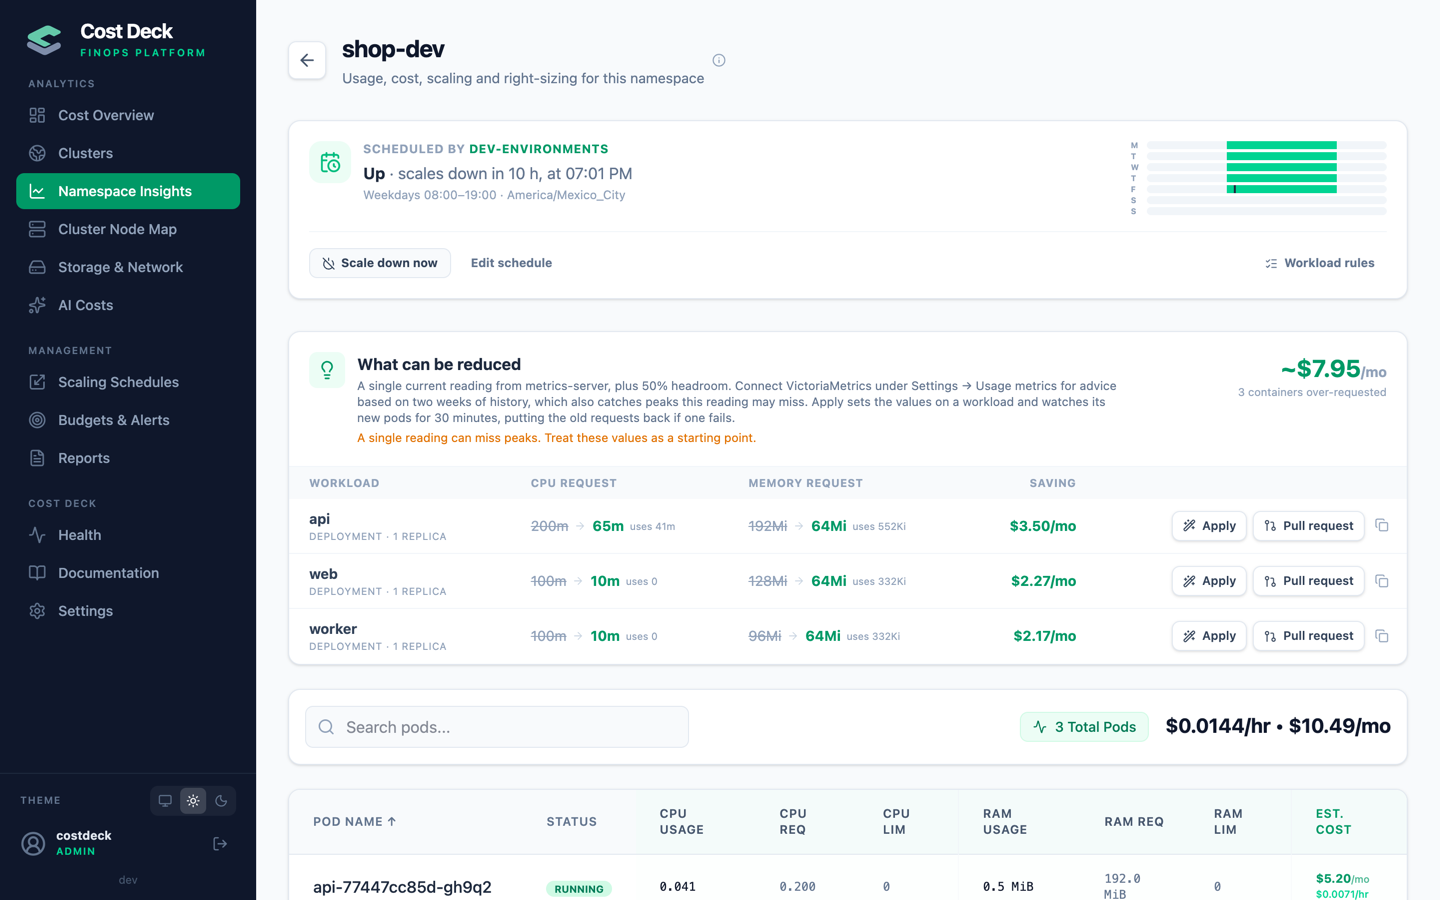
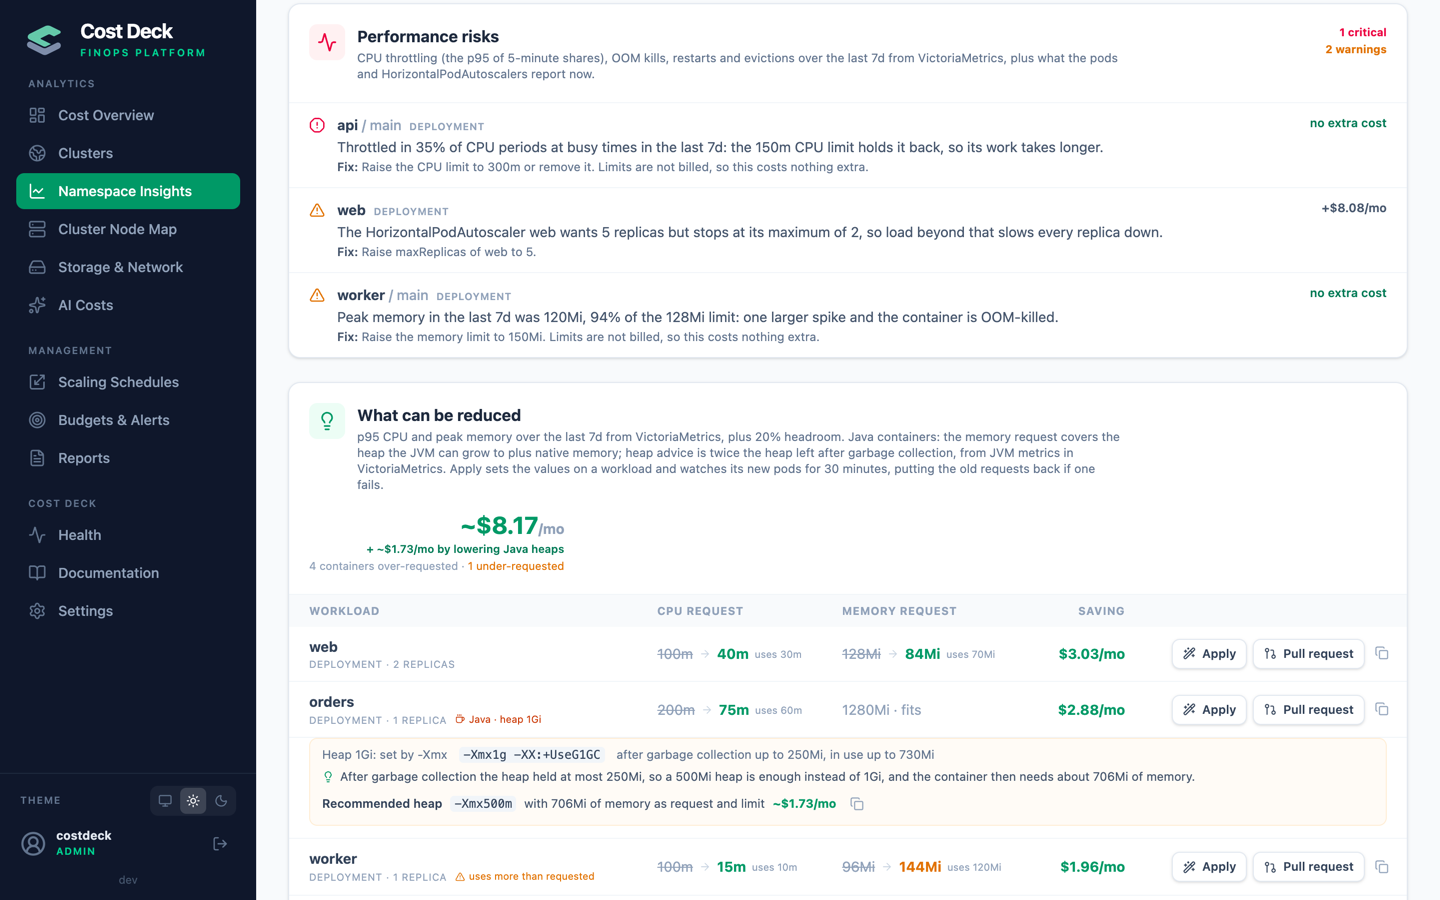
docs: show performance risks and Java heap advice in the README
The right-sizing screenshot now comes from a production namespace with
a week of history in VictoriaMetrics: a throttled CPU limit, an
autoscaler held at its maximum and memory close to its limit as risks,
and a Java service whose heap is twice what it keeps after garbage
collection, with Apply and Pull request on every row.

diff --git a/README.md b/README.md
@@ -31,7 +31,7 @@ service: one operator in your cluster does it all.
     <td width="33%" valign="top"><img src="docs/assets/screenshots/budgets.png" alt="Budgets and alerts"><br><sub><b>Budgets &amp; Alerts</b>: monthly limits, forecasts and alerts sent to Slack and Teams</sub></td>
   </tr>
   <tr>
-    <td width="33%" valign="top"><img src="docs/assets/screenshots/rightsizing.png" alt="Right-sizing"><br><sub><b>Right-sizing</b>: what each workload could request, applied with a guard or as a pull request</sub></td>
+    <td width="33%" valign="top"><img src="docs/assets/screenshots/rightsizing.png" alt="Performance risks and right-sizing"><br><sub><b>Right-sizing</b>: performance risks, what each workload could request and the Java heap it needs, applied with a guard or as a pull request</sub></td>
     <td width="33%" valign="top"><img src="docs/assets/screenshots/allocation.png" alt="Cost allocation"><br><sub><b>Cost allocation</b>: a period's cost by team with shared and idle cost, as CSV</sub></td>
     <td width="33%" valign="top"><img src="docs/assets/screenshots/sleep-page.png" alt="Sleep page"><br><sub><b>Sleep page</b>: what people see on a scaled-down environment, with a way to wake it</sub></td>
   </tr>
